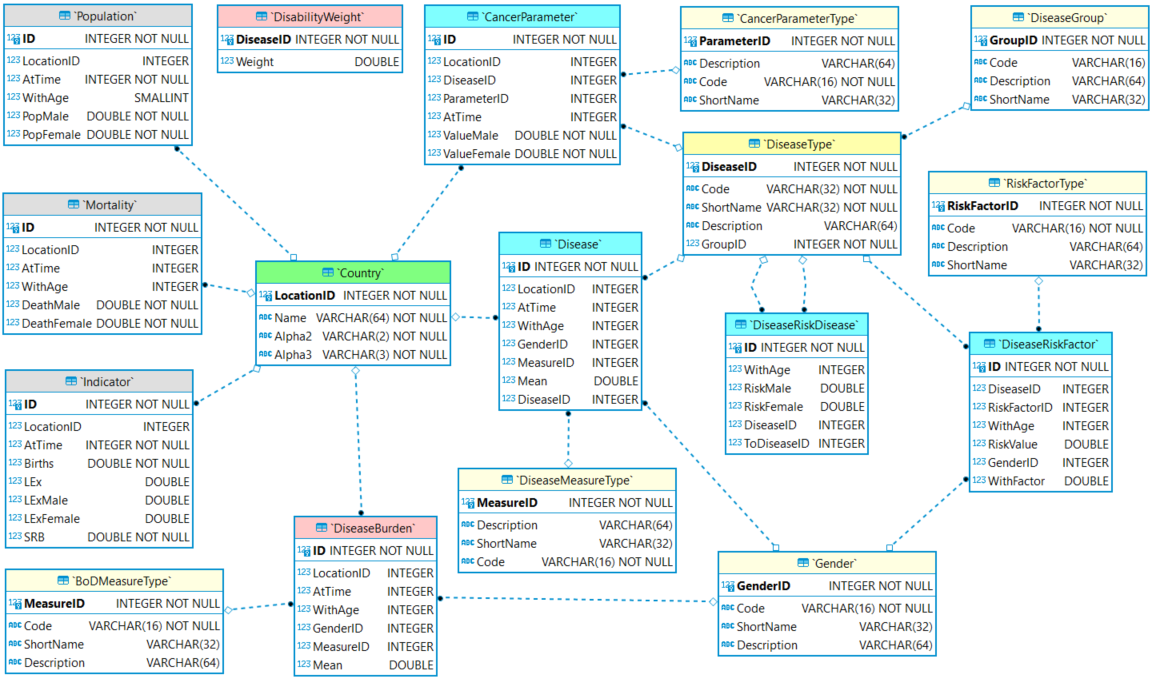
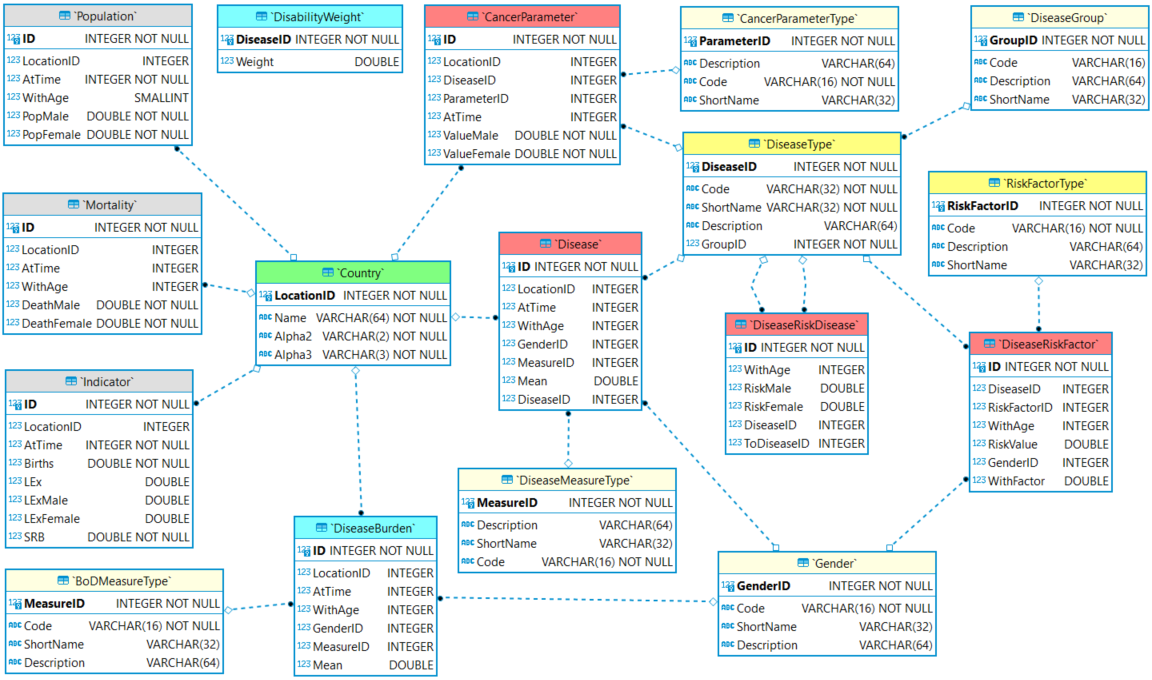
Added data model enumerations

diff --git a/datamodel.md b/datamodel.md
@@ -12,25 +12,32 @@ The data model is storage agnostic, the [Data API][dataapi] abstraction interfac
 |:--:|
 |*Backend Data API Interface*|
 
-The data model defines the minimum dataset required by the model, the backend storage can hold more data to support external analysis for example. The backend minimum dataset diagram is shown below, identify required entities, relationships, and fields with respective data types. The dataset is indexed by country, green, entities representing demographics are gray, diseases are blue, analysis are red, and enumeration types are yellow respectively. Primary key fields are shown in **bold**, the ***ID*** fields are auto-generated row identifiers for internal data integrity enforcement.
+The data model defines the minimum dataset required by the model, the backend storage can hold more data to support external analysis for example. The backend dataset diagram is shown below, it identifies the required entities, relationships, and fields with respective data types. The dataset is indexed by country, *green*, entities representing demographics are *gray*, diseases are *red*, analysis are *blue*, and enumeration types are *yellow* respectively. Primary key (PK) fields are shown in **bold**, the ***ID*** fields are auto-generated row identifiers for internal use and data integrity enforcement.
 
 |![Health GPS Data Model](/assets/image/data_model.png)|
 |:--:|
 |*Data Model Entity-Relation Diagram*|
 
-The *country* index table is based on the [ISO 3166-1][iso3166] standard. All external data sources must provide some kind of *location identifier*, most likely with different values, but must enable mapping with the data storage index definition to be reconcile.
+The *country* index entity is based on the [ISO 3166-1][iso3166] standard. All external data sources must provide some kind of *location identifier*, most likely with different values, but must enable mapping with the data storage index definition to be reconcile.
 
 # Enumerations
-To provide *stable identifier* to commonly used concepts, the data model provides normalised enumerations tables, yellow, which must be populated and possible mapped to external data source before data entry. It is very **important** to be consistent when populating the enumerations *code* field to provide a stable lookups, suggested guide:
+The data model defines normalised enumerations, *yellow*, to provide *stable identifier* for the commonly used concepts, such as gender, and consistent dimensional data lookups. Enumerations are defined by four fields as shown below, must populated before any data entry, provide also mapping with external data sources during the reconcile process.
 
-* Start with a letter 
-* Use only letters, numbers, and/or the underscore character, no spaces
-* Be consistent with casing, prefer lower case, avoid mixing
-* Keep it short, but meaningful and recognisable 
+| Field name | Data Type | Constraint | Description             |
+| :---       | :---      | :---       |---                      |
+| **XyzID**  | Integer   | PK         | Model unique identifier |
+| Code       | Text      | UK         | User stable identifier  |
+| ShortName  | Text      |            | User facing display name|
+| Description| Text      |            | Optional documentation  |
 
-The same recommendation applies to folders and file names definitions in cross-platform applications, operating system like linux are by default case-sensitive, adopting a consistent naming convention works everywhere.
+The unique constraint (UK) may include multiple fields within the entity definition, *ShortName* fields are the user facing name for the *code* identifier and must always be provided. It is very **important** to be consistent when populating the enumerations *code* field to provide users and applications stable lookups, the following list is a suggested guide:
 
-The *ShortName* field is intended to provide a user facing display name for the *code* identifier, and the *Description* field allows optional documentation. Following are example enumerations defined in Health GPS model:
+* start with a letter 
+* use only letters, numbers, and/or the underscore character, no spaces
+* be consistent with casing, prefer lower case, avoid mixing
+* keep it short, but meaningful and recognisable
+
+The same recommendation applies to *folders* and *file* names definitions in cross-platform applications, operating system like *Linux* are case-sensitive by default, adopt a consistent naming convention that works everywhere. Following are the enumerations defined by the Health GPS model:
 
 ## Gender
 
@@ -68,7 +75,39 @@ The *ShortName* field is intended to provide a user facing display name for the 
 | 1         | prevalence | Prevalence | Prevalence distribution |
 | 2         | survivalrate | Survival | Survival rate parameters |
 
-Entities *DiseaseType* and *RiskFactorType* provide a central **Registry** for available *diseases* and related *risk factors* respectively. The risk factor *code* must be consistent and exact match the external risk factor models definition.
+## ***Registries***
+The *DiseaseType* and *RiskFactorType* are *dynamic enumerations*, providing a consistent *Registry* for available *diseases* and relative *risk factors* respectively. These enumerations are populated on demand, when defining a new diseases within the Health GPS ecosystem. Following are the examples of dynamic enumerations defined in the Health GPS model:
+
+## Disease Type
+| DiseaseID | Code        | GroupID | ShortName | Description|
+| :---      | :---        | :---:   | :---      |---         |
+| Auto      | asthma      | 0       | Asthma    | |
+| Auto      | diabetes    | 0       | Diabetes| Diabetes mellitus type 2 |
+| Auto      | lowbackpain | 0       | Low back pain|  |
+| Auto      | colorectum  | 1       | Colorectal  cancer|  |
+
+## Risk Factor Type
+| ParameterID | Code | ShortName | Description     |
+| :---      | :---   | :---      |---              |
+| Auto      | bmi    | BMI       | Body Mass Index |
+
+>The risk factor *code* must be consistent, and exact match the risk factor naming convention used in the external models definition. Only risk factors with relative effects on diseases data should be registered to minimise the constraint on external modelling.
+
+# Data Entities
+
+All entities in the model have a *time* and/or *age* dimension associated with the *measures* being stored. The following notation is used to represent these two dimensions across the data model:
+
+| Field Name| Data Type | Description             |
+| :---      | :---      | :---                    |
+| AtTime    | Integer   | The time in years       |
+| WithAge   | Integer   | The age at time in years|
+
+Entities with a single measure associated with gender, e.g. Population, store the values for each enumeration as column, while entities with higher dimensionality, e.g. disease, represent *Gender* and *Measure* independent dimensions.
+
+---
+> **_UNDER DEVELOPMENT:_**  More content coming soon.
+---
+
 
 [comment]: # (References)
 [dataapi]: https://github.com/imperialCHEPI/healthgps/blob/main/source/HealthGPS.Core/datastore.h "Health GPS Data API definition."

diff --git a/userguide.md b/userguide.md
@@ -17,9 +17,6 @@ As with any simulation model, it is the user's responsibility to process and ana
 
 The *file data storage* provides a reusable, reference dataset in the model's [standardised](datamodel) format for improved usability, the dataset can easily be expanded with new data sources. The [index.json][datastore] file defines the storage structure, file names, diseases definition, metadata to identify the data sources and respective limits for consistency validation.
 
-
-
-
 ---
 > **_UNDER DEVELOPMENT:_**  More content coming soon.
 ---
